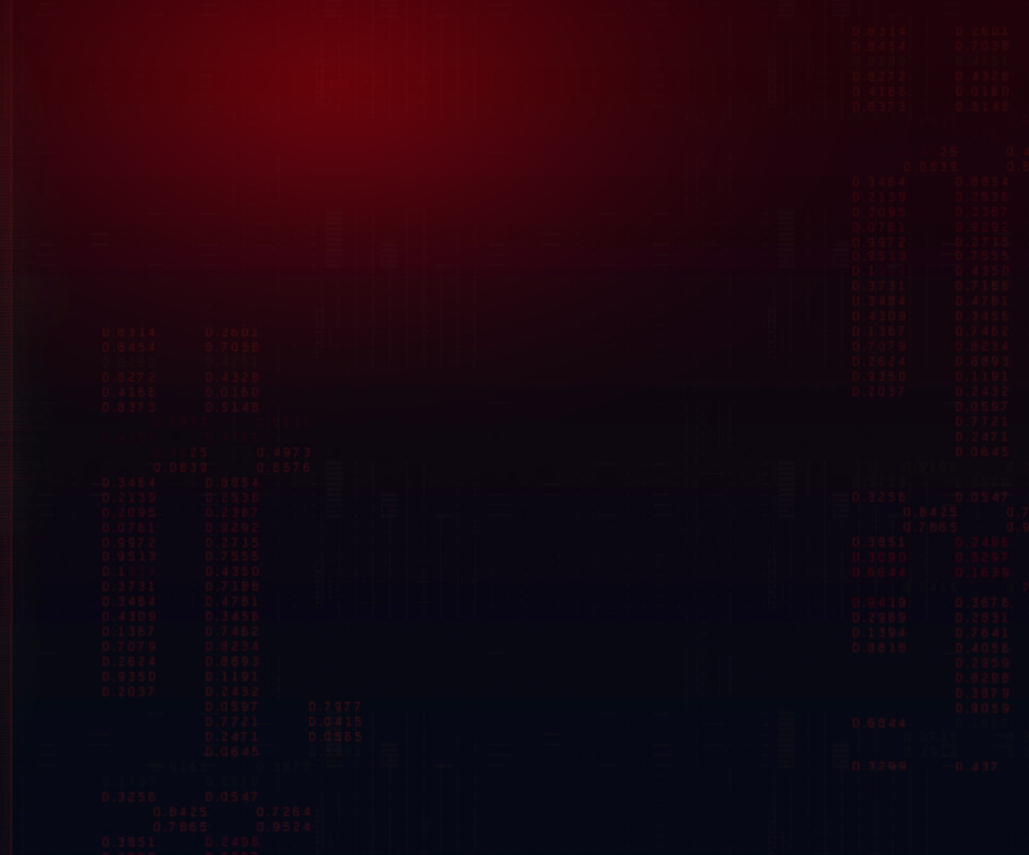
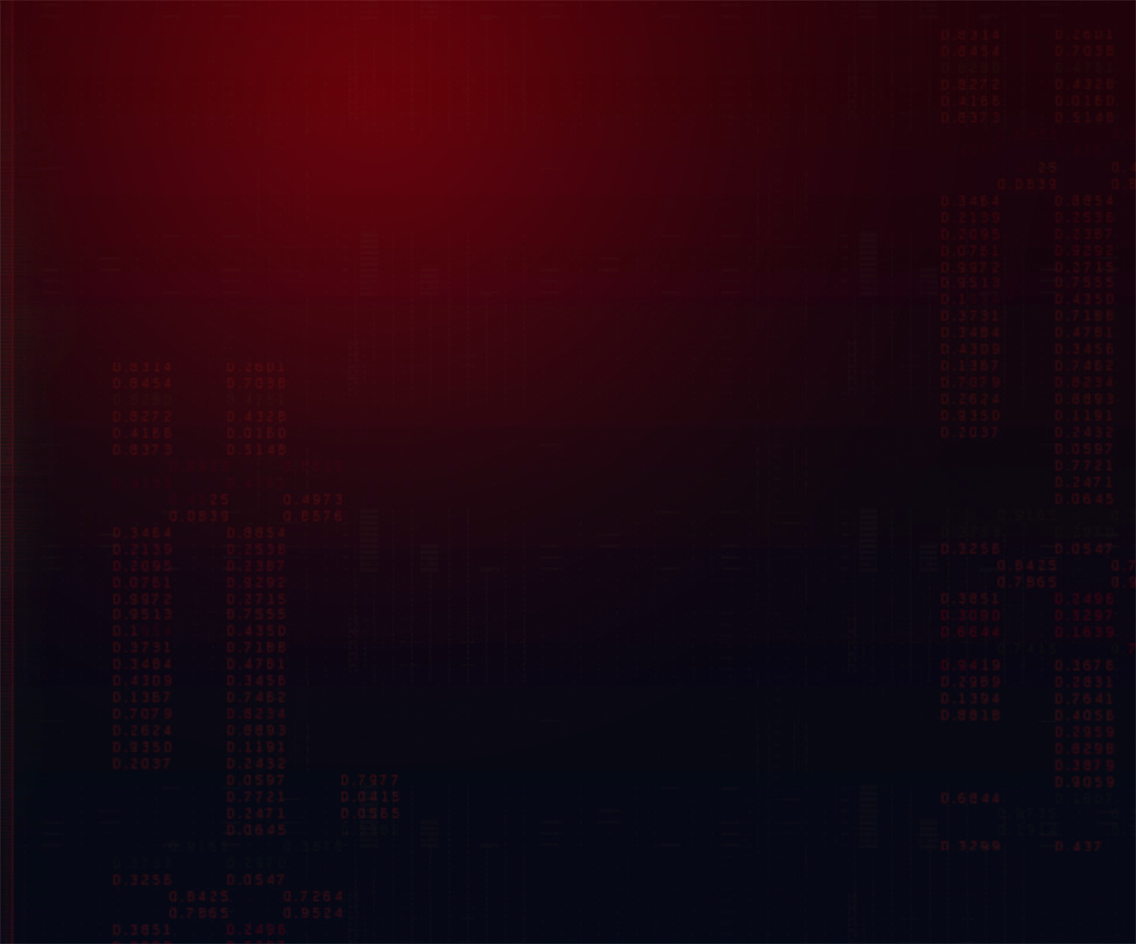
modified:   front/src/css/create_page.less 	modified:   front/src/css/styles.less 	new file:   front/src/img/create/Untitled-1.png 	modified:   front/src/img/create/background.png 	modified:   front/src/img/index/background.png 	modified:   front/src/index.html 	modified:   front/src/note_create.htm

Changed region(s): [[0.2177, 0.3345, 0.4354, 0.4865]]

diff --git a/front/src/css/create_page.less b/front/src/css/create_page.less
@@ -3,7 +3,7 @@
 @import "fonts.less";
 
 @content-width: 80vw;
-@common-margins: calc(@content-width / 100 * 5);
+@common-margins: calc(@content-width / 100 * 3);
 .c-button:hover {
   clip-path: polygon(0 0, 100% 0, 100% 82.8%, 97.2% 100%, 0 100%);
 }
@@ -38,7 +38,7 @@ html {
     "header header"
     "sidebar main"
     "footer footer";
-  grid-template-columns: 2fr 7fr;
+  grid-template-columns: 3.1fr 13fr;
   grid-template-rows: 1fr 7fr 1fr;
   background-color: aliceblue;
   background-image: url("../img/create/background.png");
@@ -219,25 +219,28 @@ html {
   justify-content: start;
   align-items: center;
   gap: 10px;
-  height: fit-content;
+  //height: fit-content;
   margin-top: 35px;
-  margin-right: @common-margins;
+  margin-right: 21%;
 
   .new-note-form-wrapper {
     display: flex;
     flex-direction: column;
     justify-content: start;
     width: 100%;
+    height: 100%;
     .note-form {
       display: flex;
       flex-direction: column;
       gap: 10px;
+      height: 100%;
       textarea, input {
         box-sizing: border-box;
         background-color: transparent;
         border: none;
         outline: none;
         width: 100%;
+        height: 100%;
         color: #fff;
         font-family: "Numans";
         font-weight: 800;
@@ -245,21 +248,32 @@ html {
       }
       textarea {
         box-sizing: border-box;
-        padding: 2% 3% 3% 0%;
+        padding: 3% 3% 3% 1%;
         resize: none;
+        line-height: 3vh;
+        //height: 80%;
       }
+      input {
+        box-sizing: border-box;
+        padding: 0.3%;
+      }
+
       label {
-        margin-right: 10px;
-        font-size: 1.3vw;
+        margin: 5px;
+        font-size: 1.9vw;
       }
       .form-buttons-wrapper {
         display: flex;
         justify-content: space-between;
+        margin-top: 15px;
       }
       .form-field {
         display: flex;
         border: @cyber_swamp_dark 2px solid;
         align-items: center;
+      }
+      .note-text-wrapper {
+        height: 65%;
       }
     }
   }

diff --git a/front/src/css/styles.less b/front/src/css/styles.less
@@ -158,6 +158,8 @@ html {
   grid-area: main;
   position: relative;
   display: flex;
+  flex-wrap: nowrap;
+  box-sizing: border-box;
   flex-direction: column;
   justify-content: start;
   align-items: center;
@@ -206,8 +208,7 @@ html {
     }
   }
   .main-sec-button {
-    //box-sizing: border-box;
-    display: flex;
+    box-sizing: border-box;
     margin-top: 20px;
   }
 }
@@ -296,6 +297,9 @@ html {
 
 @media screen and (max-width: 410px) {
   .header {
+    .header-button {
+      width: 45vw;
+    }
     .header-left {
       .logo-container {
         .logo {
@@ -306,19 +310,22 @@ html {
             width: 45vw;
           }
         }
-        .header-button.discover {
-          width: 45vw;
-        }
       }
     }
     .header-right {
       .menu-container {
+        margin-top: 10px;
         .menu-buttons {
           .header-button {
             width: 25vw;
           }
         }
       }
+    }
+  }
+  .main {
+    .main-button {
+      width: 30vw;
     }
   }
 }

diff --git a/front/src/note_create.html b/front/src/note_create.html
@@ -87,7 +87,7 @@
                 <label for="note-tag">Tag:</label>
                 <input type="text" name="note-tag" id="note-tag" required>
               </div>
-              <div class="form-field">
+              <div class="form-field note-text-wrapper">
                 <label for="note-text"></label>
                 <textarea name="note-text" id="note-text" rows="10" cols="10"></textarea>
               </div>
@@ -98,7 +98,7 @@
                 <div class="button-wrapper">
                   <img src="./img/create/private_button.svg">
                 </div>
-              </div> 
+              </div>
             </form>
           </div>
         </main>

diff --git a/front/src/index.html b/front/src/index.html
@@ -55,7 +55,9 @@
             </div>
           </div>
           <div class="main-sec-button c-button button-wrapper">
-              <input type="image"  src="./img/index/main_sign_up_button.svg"/>
+              <div class="button-wrapper">
+                <input type="image" class="main-button"  src="./img/index/main_sign_up_button.svg"/>
+              </div>
           </div>
         </main>
         <footer class="footer">
